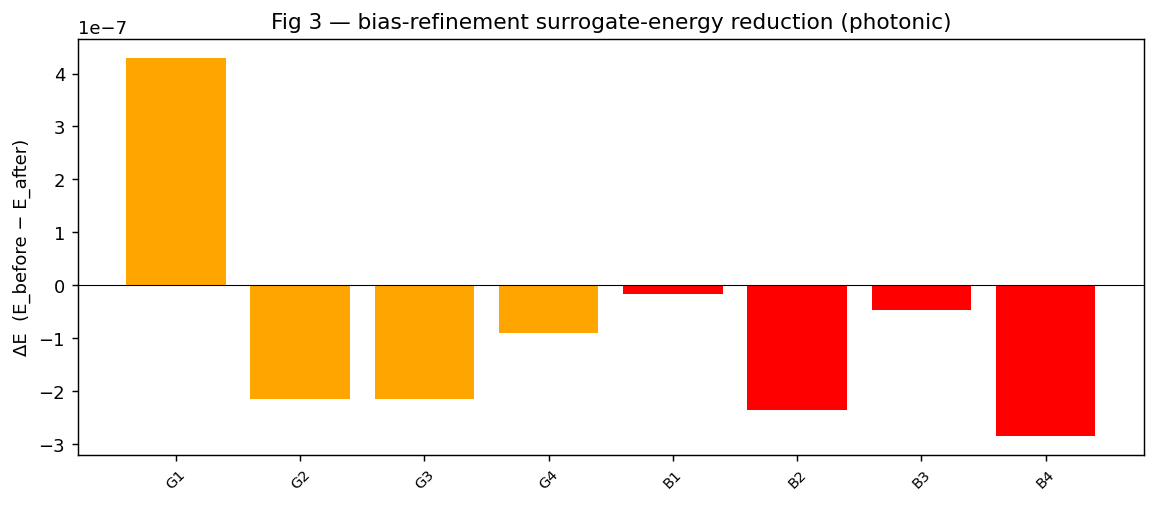
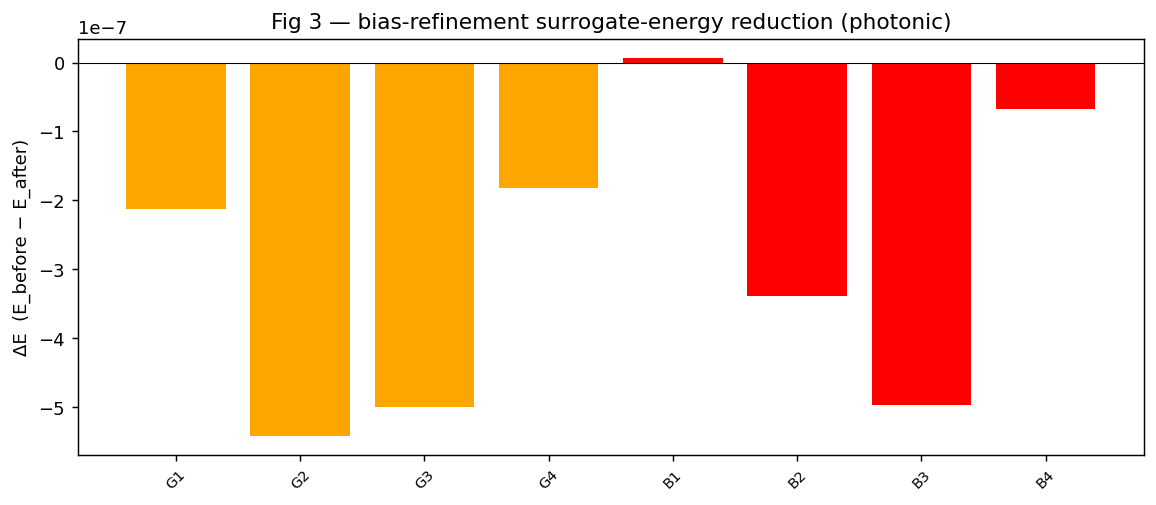
Better photonic implementation, still no bias advantage

diff --git a/papers/EGAS/lib/photonic_circuits.py b/papers/EGAS/lib/photonic_circuits.py
@@ -75,7 +75,6 @@ def create_quantum_module(
         def __init__(
             self,
             n_in: int,
-            n_biases: int,
             hidden: int = 32,
             gain: float = 10.0,
         ):
@@ -86,7 +85,7 @@ def create_quantum_module(
                 nn.Tanh(),
                 nn.Linear(hidden, hidden),
                 nn.Tanh(),
-                nn.Linear(hidden, n_biases),
+                nn.Linear(hidden, 1),
             )
 
             # Zero-initialize the output layer
@@ -114,7 +113,6 @@ def create_quantum_module(
             )
             self.bias = BiasMLP(
                 n_in=num_features,
-                n_biases=len(input_parameters),
             )
 
         def forward(self, x: torch.Tensor) -> torch.Tensor:
@@ -125,7 +123,12 @@ def create_quantum_module(
                         "the sequence."
                     )
                 theta = x[..., self.ps_data_indices] * self.ps_r_factors
+                # Single bias per sample
                 phi = self.bias(x)
+
+                # Repeat the same bias for every phase shifter
+                phi = phi.expand(-1, theta.shape[-1])
+
                 layer_input = torch.cat([theta, phi], dim=-1)
                 return self.layer(layer_input)
             else:
